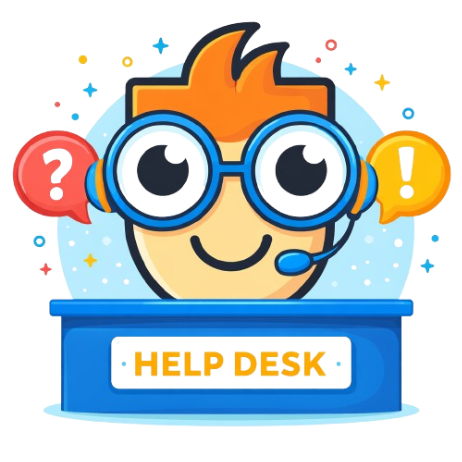
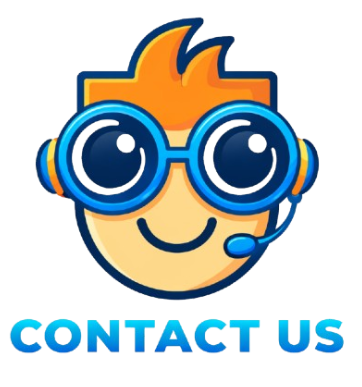
Updated the png and css files

diff --git a/src/pages/Mission.css b/src/pages/Mission.css
@@ -10,10 +10,10 @@
 
 /* ===== CAROUSEL ===== */
 .mission-carousel {
-  height: 50vh;
+  height: 80vh;
   width: 100%;
   max-width: 1200px;
-  margin: 0 auto 48px;
+  margin: 20px auto 48px;
   position: relative;
   overflow: hidden;
 }
@@ -141,7 +141,7 @@
 }
 
 .mission-image {
-  width: 50%;
+  width: 45%;
   max-width: 80%;
   animation: float 6s ease-in-out infinite;
 }

diff --git a/src/pages/Contact.jsx b/src/pages/Contact.jsx
@@ -30,7 +30,6 @@ const Contact = () => {
         </div>
 
         <div className="contact-content">
-          <h2>Contact Us</h2>
           <p>
             Collaborate with us — build enduring platforms and redefine the
             future of digital innovation.

diff --git a/src/index.css b/src/index.css
@@ -391,12 +391,13 @@ body {
 
 /* Footer */
 footer {
-  position: relative;
+  position: fixed;
   bottom: 0;
   padding: 40px 0;
   text-align: center;
   background: var(--brand-blue-dark);
   color: white;
+  z-index: 888;
 }
 
 footer p {

diff --git a/src/pages/Contact.css b/src/pages/Contact.css
@@ -190,7 +190,7 @@
   
     .contact-image {
       order: -1;
-      margin-bottom: 2rem;
+      margin: 2rem auto 1rem;
     }
     .contact-image img{
       width:90%;
